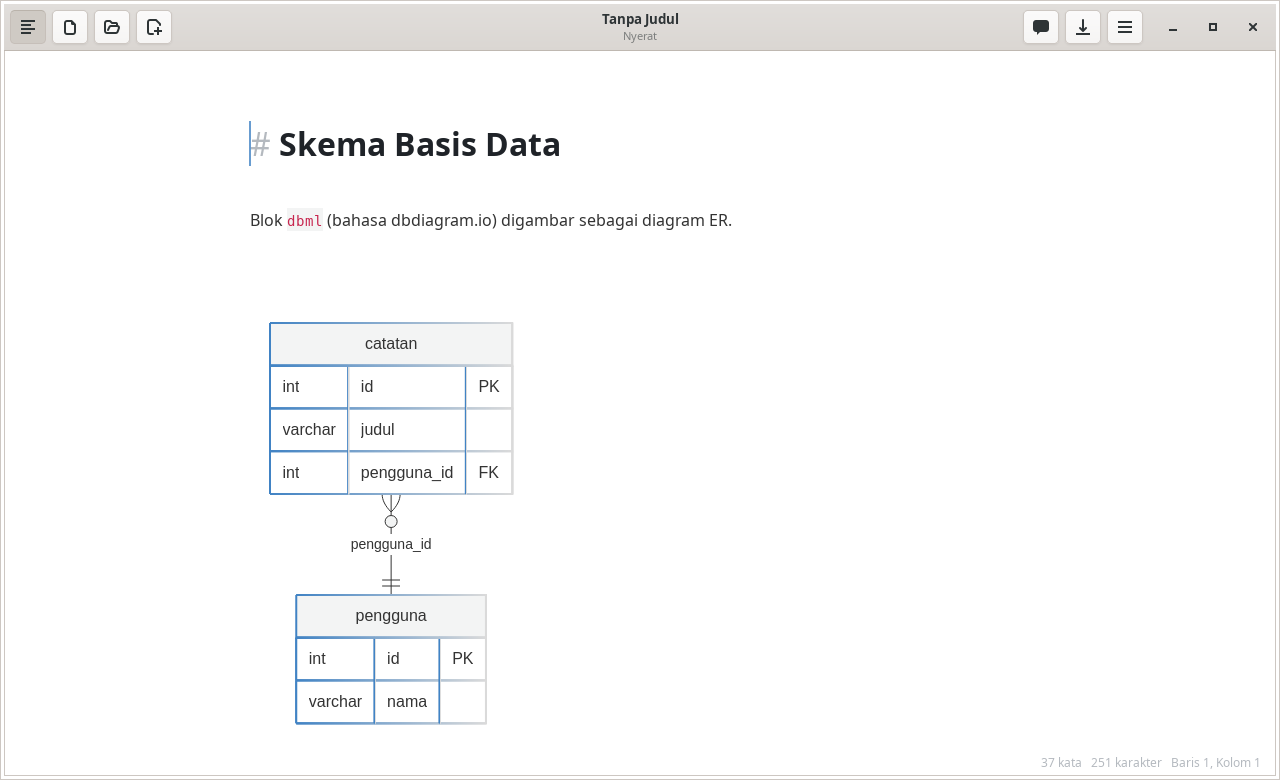
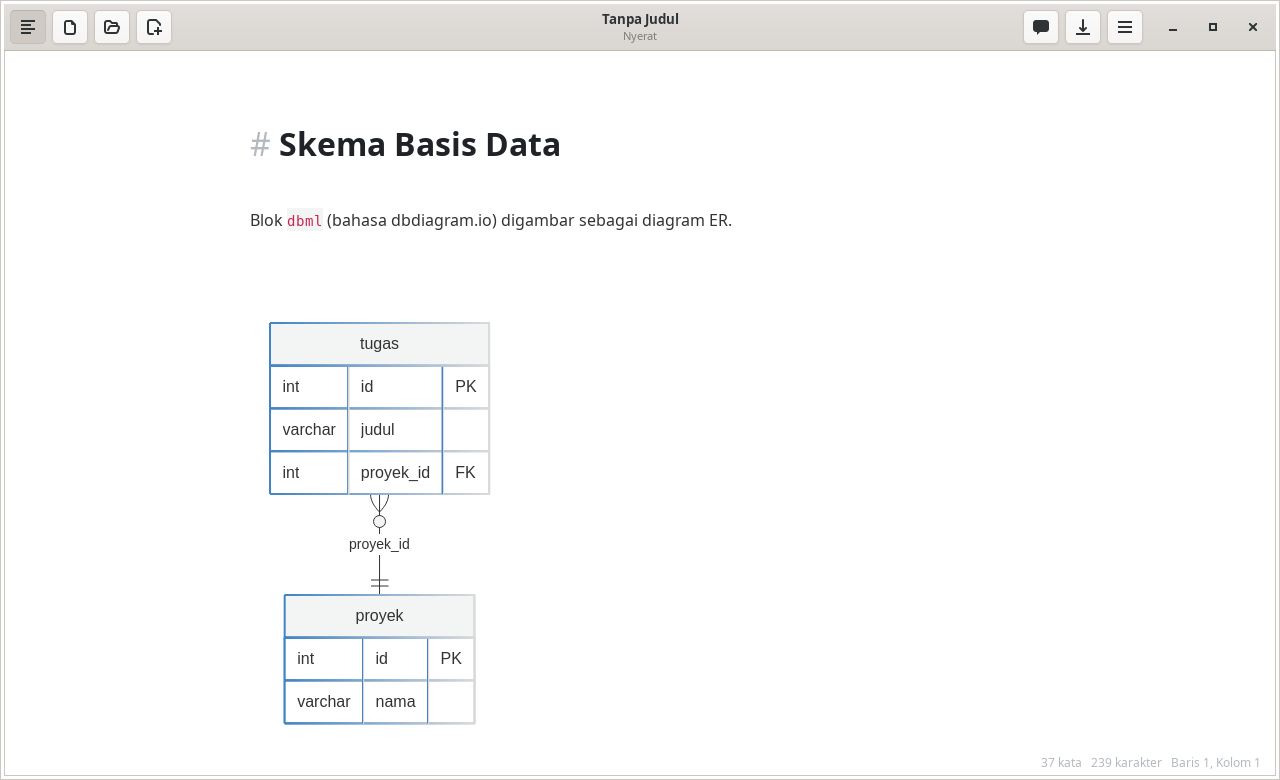
Ganti contoh sayur/telur dan contoh umum lain dengan contoh pekerjaan di docs dan dokumen sambutan

diff --git a/scripts/capture.ts b/scripts/capture.ts
@@ -58,8 +58,8 @@ Rapat mingguan, **Jumat pagi**. Hal yang *perlu* ditindaklanjuti ada di bawah, t
 > Kutipan dari pengguna: "Akhirnya editor yang tidak mengganggu."
 
 \`\`\`ts
-function sapa(nama: string): string {
-    return \`Halo, \${nama}!\`;
+function sisaAnggaran(total: number, terpakai: number): number {
+    return total - terpakai;
 }
 \`\`\`
 
@@ -92,16 +92,17 @@ Tulis diagram sebagai kode, lihat hasilnya langsung.
 
 \`\`\`mermaid
 graph LR
-    A[Tulis] --> B{Bagus?}
-    B -->|ya| C[Simpan]
+    A[Catat] --> B{Perlu tindak lanjut?}
+    B -->|ya| C[Buat tugas]
     B -->|belum| A
-    C --> D[Ekspor HTML]
+    C --> D[Tinjau bersama agent]
 \`\`\`
 
 \`\`\`mermaid
 sequenceDiagram
-    Pengguna->>Nyerat: Ketik kode diagram
-    Nyerat-->>Pengguna: Gambar muncul seketika
+    Anda->>Agent: Perbarui jadwal rilis
+    Agent-->>Anda: Usulan perubahan (selisih)
+    Anda->>Agent: Terapkan
 \`\`\`
 `;
 
@@ -110,18 +111,18 @@ const DBML_DOC = `# Skema Basis Data
 Blok \`dbml\` (bahasa dbdiagram.io) digambar sebagai diagram ER.
 
 \`\`\`dbml
-Table pengguna {
+Table proyek {
   id int [pk]
   nama varchar
 }
 
-Table catatan {
+Table tugas {
   id int [pk]
   judul varchar
-  pengguna_id int
+  proyek_id int
 }
 
-Ref: catatan.pengguna_id > pengguna.id
+Ref: tugas.proyek_id > proyek.id
 \`\`\`
 `;
 
@@ -154,24 +155,22 @@ kanban: true
 const CODE_DOC = `# Blok Kode Berwarna
 
 \`\`\`python
-def fibonacci(n):
-    a, b = 0, 1
-    for _ in range(n):
-        yield a
-        a, b = b, a + b
+from datetime import date
 
-print(list(fibonacci(10)))
+def sisa_hari(rilis, hari_ini):
+    return (rilis - hari_ini).days
+
+print(sisa_hari(date(2026, 11, 22), date(2026, 10, 5)))
 \`\`\`
 
 \`\`\`rust
-fn main() {
-    let nama = "Nyerat";
-    println!("Halo, {nama}!");
+fn total_anggaran(biaya: &[u64]) -> u64 {
+    biaya.iter().sum()
 }
 \`\`\`
 
 \`\`\`bash
-npm install && npm start
+git add rencana/ && git commit -m "Perbarui jadwal rilis"
 \`\`\`
 `;
 
@@ -310,7 +309,7 @@ function main(app: Gtk.Application): void {
 
     // ───────── GIF 2: mengetik Markdown ─────────
     load('', false, 0);
-    const typed = '# Daftar Belanja\n\nHari ini beli **sayur**, *buah*, dan `telur`.\n\n- [ ] Bayam\n- [x] Apel\n- [ ] Tahu\n';
+    const typed = '# Catatan Rapat\n\nKeputusan: rilis **22 November**, anggaran *tidak berubah*, dan bug di `sinkronisasi`.\n\n- [ ] Budi: perbaiki bug\n- [x] Sari: siapkan materi\n- [ ] Dewi: jadwalkan beta\n';
     let acc = '';
     frame('mengetik', 2);
     for (const ch of typed) {
@@ -321,13 +320,13 @@ function main(app: Gtk.Application): void {
     frame('mengetik', 6);
 
     // ───────── GIF 3: diagram hidup ─────────
-    load('# Alur Kerja\n\n```mermaid\ngraph LR\n    A[Tulis] --> B[Simpan]\n```\n', false, 0, false);
+    load('# Alur Kerja\n\n```mermaid\ngraph LR\n    A[Catat] --> B[Rencanakan]\n```\n', false, 0, false);
     waitMermaid();
     frame('diagram', 3);
     cursorTo(4, 20);
     waitMermaid();
     frame('diagram', 3);
-    for (const add of ['\n    B --> C[Ekspor]', '\n    C --> D[Bagikan]', '\n    D --> A']) {
+    for (const add of ['\n    B --> C[Kerjakan]', '\n    C --> D[Tinjau]', '\n    D --> A']) {
         const it = iterAtLine(buf, 4);
         it.forward_to_line_end();
         buf.insert(it, add, -1);
@@ -479,20 +478,20 @@ function main(app: Gtk.Application): void {
         const [, , err, status] = GLib.spawn_sync(repo, ['git', '-c', 'user.name=Eka Putra', '-c', 'user.email=eka@example.com', ...args], env, GLib.SpawnFlags.SEARCH_PATH, null);
         if (status !== 0) throw new Error(`git ${args.join(' ')}: ${new TextDecoder().decode(err ?? undefined)}`);
     };
-    const note = GLib.build_filenamev([repo, 'catatan.md']);
+    const note = GLib.build_filenamev([repo, 'rencana.md']);
     const versions = [
-        ['Buat kerangka catatan', '# Catatan Proyek\n\n## Tujuan\n\nMenulis tanpa gangguan.\n'],
-        ['Tambah bagian jadwal', '# Catatan Proyek\n\n## Tujuan\n\nMenulis tanpa gangguan.\n\n## Jadwal\n\n- Draf pertama: Oktober\n'],
-        ['Perbaiki tujuan dan jadwal', '# Catatan Proyek\n\n## Tujuan\n\nMenulis tanpa gangguan, dengan tampilan yang langsung terformat.\n\n## Jadwal\n\n- Draf pertama: 10 Oktober\n- Revisi: 24 Oktober\n'],
+        ['Buat kerangka rencana', '# Rencana Peluncuran\n\n## Tujuan\n\nMerilis Catat 1.0.\n'],
+        ['Tambah bagian jadwal', '# Rencana Peluncuran\n\n## Tujuan\n\nMerilis Catat 1.0.\n\n## Jadwal\n\n- Beta tertutup: Oktober\n'],
+        ['Perjelas tujuan dan tanggal', '# Rencana Peluncuran\n\n## Tujuan\n\nMerilis Catat 1.0 untuk pengguna Linux, lengkap dengan sinkronisasi folder.\n\n## Jadwal\n\n- Beta tertutup: 20 Oktober\n- Rilis publik: 15 November\n'],
     ];
     git('init', '-q');
     for (const [msg, text] of versions) {
         GLib.file_set_contents(note, text);
-        git('add', 'catatan.md');
+        git('add', 'rencana.md');
         git('commit', '-q', '-m', msg);
     }
-    GLib.file_set_contents(note, versions[2][1] + '- Rilis: 1 November\n');
-    GLib.file_set_contents(GLib.build_filenamev([repo, 'ide.md']), '# Ide\n\nBelum masuk git.\n');
+    GLib.file_set_contents(note, versions[2][1] + '- Evaluasi: 30 November\n');
+    GLib.file_set_contents(GLib.build_filenamev([repo, 'ide.md']), '# Ide\n\nFitur ekspor ke PDF (belum masuk git).\n');
     w.openFolder(repo, false);
     w.load(note);
     w.setOption('sidebar', true);

diff --git a/src/welcome.ts b/src/welcome.ts
@@ -2,7 +2,7 @@
 
 export const WELCOME = `# Selamat datang di Nyerat
 
-Editor **Markdown** yang langsung terformat: sintaks disembunyikan, dan muncul lagi saat kursor berada di barisnya. Coba klik baris ini.
+Ruang kerja pribadi untuk catatan, rencana, dan tugas, bersama agent AI (buka panelnya dengan \`Ctrl+Shift+A\`). Semuanya **Markdown** yang langsung terformat: sintaks disembunyikan, dan muncul lagi saat kursor berada di barisnya. Coba klik baris ini.
 
 ## Format teks
 
@@ -12,18 +12,18 @@ Editor **Markdown** yang langsung terformat: sintaks disembunyikan, dan muncul l
 
 ## Daftar tugas
 
-- [x] Pasang GJS
-- [ ] Tulis sesuatu yang hebat (klik kotaknya untuk mencentang)
+- [x] Buka folder kerja
+- [ ] Catat keputusan rapat hari ini (klik kotaknya untuk mencentang)
 
-1. Daftar bernomor
+1. Tulis rencana
 2. Tekan Enter untuk lanjut otomatis
 
 > Kutipan juga bisa.
 > Tekan Enter di baris kosong untuk keluar.
 
 \`\`\`js
-function halo(nama) {
-    return \`Halo, \${nama}!\`;
+function sisaAnggaran(total, terpakai) {
+    return total - terpakai;
 }
 \`\`\`
 
@@ -35,8 +35,8 @@ function halo(nama) {
 
 \`\`\`mermaid
 graph LR
-    A[Tulis] --> B{Bagus?}
-    B -->|ya| C[Simpan]
+    A[Catat] --> B{Perlu tindak lanjut?}
+    B -->|ya| C[Buat tugas]
     B -->|belum| A
 \`\`\`
 

diff --git a/docs/index.html b/docs/index.html
@@ -279,7 +279,7 @@ footer a { color: var(--muted); }
           <li>Tab dan Shift+Tab mengatur indentasi daftar</li>
         </ul>
       </div>
-      <figure class="shot"><img src="assets/mengetik.gif" width="900" height="586" loading="lazy" alt="Animasi mengetik Markdown: heading, teks tebal dan miring, serta daftar tugas langsung tampil terformat"><figcaption>Mengetik <code>**sayur**</code> dan <code>`telur`</code> langsung terformat</figcaption></figure>
+      <figure class="shot"><img src="assets/mengetik.gif" width="900" height="586" loading="lazy" alt="Animasi mengetik Markdown: heading, teks tebal dan miring, serta daftar tugas langsung tampil terformat"><figcaption>Mengetik <code>**22 November**</code> dan <code>`sinkronisasi`</code> langsung terformat</figcaption></figure>
     </div>
 
     <div class="row flip">
@@ -414,7 +414,7 @@ npm install</pre>
 <pre>npm start
 
 <span class="c"># atau buka file/folder tertentu setelah di-build</span>
-gjs -m dist/nyerat.js catatan.md
+gjs -m dist/nyerat.js rencana.md
 gjs -m dist/nyerat.js ~/catatan</pre>
       </div>
     </div>

diff --git a/README.md b/README.md
@@ -82,7 +82,7 @@ npm start
 Setelah di-build, aplikasi bisa dijalankan langsung tanpa npm, termasuk untuk membuka file tertentu (file yang belum ada akan dibuat saat disimpan):
 
 ```bash
-gjs -m dist/nyerat.js catatan.md
+gjs -m dist/nyerat.js rencana.md
 ```
 
 Aplikasi memakai argumen pertama yang bukan opsi sebagai path file atau folder. Setiap pemanggilan membuka proses dan jendela sendiri; di dalam jendela itu file lain dibuka sebagai tab. Tanpa argumen, tab berfile yang terbuka saat jendela terakhir ditutup dibuka lagi. Pada pembukaan pertama tanpa file, editor menampilkan dokumen contoh; jika tidak ada tab untuk dipulihkan, pembukaan berikutnya dimulai dengan dokumen kosong.
